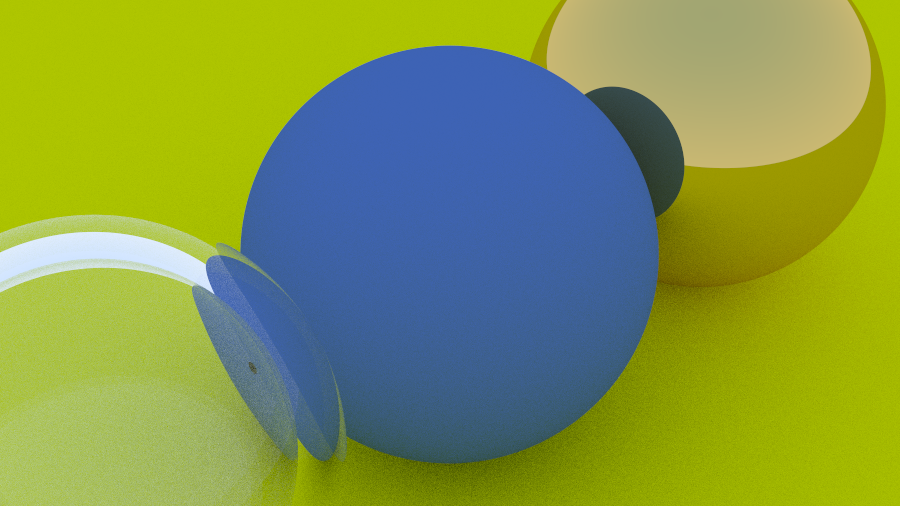
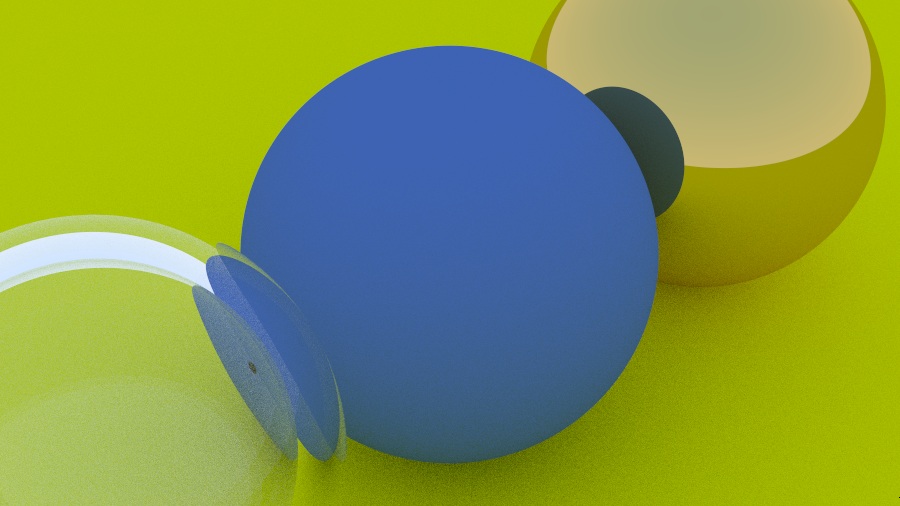
Reorder pixel rendering to make it look cooler and fixed non-reproducible random

diff --git a/src/main.rs b/src/main.rs
@@ -6,6 +6,7 @@ mod my_scene;
 mod noise;
 mod ray;
 mod scene;
+mod space_filler;
 mod sphere;
 
 use std::io::{stdout, Write};
@@ -100,10 +101,9 @@ fn update_buffer(buffer: &mut [u32], window: &mut Window) {
     let (sender, receiver) = mpsc::sync_channel(HEIGHT * WIDTH + 1);
     thread::spawn(move || {
         (0..(HEIGHT * WIDTH)).into_par_iter().for_each(|xy| {
-            let x = xy % WIDTH;
-            let y = xy / WIDTH;
+            let (x, y) = space_filler::filling_curve(xy, WIDTH, HEIGHT);
             let color = pixel_processing(x, HEIGHT - y);
-            if sender.send((xy, color)).is_err() {}
+            if sender.send((x + y * WIDTH, color)).is_err() {}
         });
         eprintln!("\r100.0% - Finished computing");
     });
@@ -175,18 +175,17 @@ fn out_color(pixel_color: Color) -> (u8, u8, u8) {
     (ir, ig, ib)
 }
 
+// Get a different value for small differences in seed by casting its to a u64.
+fn f32_to_unique_u64(seed: f32) -> u64 {
+    unsafe {
+        // Safety: this function always takes an f64, so trasnmuting to an u64 is safe.
+        std::mem::transmute_copy::<_, u64>(&(seed as f64))
+    }
+}
+
 #[inline]
 fn random_in_unit_sphere(seed: f32) -> glm::Vec3 {
-    // Get a different value for small differences in rec.point by casting its
-    // f64 sum to a u64.
-    // Maybe using a real hash would be better ? I don't know if the overhead is
-    // necessary, and this implementation already works well.
-    let hash = unsafe {
-        // Safety: the function argument always returns a f64 so transmuting to u64
-        // works.
-        std::mem::transmute_copy::<_, u64>(&(seed as f64))
-    };
-    let r = &mut StdRng::seed_from_u64(hash);
+    let r = &mut StdRng::seed_from_u64(f32_to_unique_u64(seed));
     glm::make_vec3(&UnitBall.sample(r)).normalize()
 }
 

diff --git a/src/material.rs b/src/material.rs
@@ -1,8 +1,11 @@
 use std::sync::Arc;
 
+use rand::rngs::StdRng;
+use rand::{Rng, SeedableRng};
+
 use crate::hittable::HitRecord;
 use crate::ray::Ray;
-use crate::{random_in_unit_sphere, Color};
+use crate::{f32_to_unique_u64, random_in_unit_sphere, Color};
 
 pub enum ScatterResponse {
     Scatter(Color, Ray),
@@ -104,12 +107,14 @@ impl Material for Dielectic {
         let cos_theta = (-unit_direction).dot(&rec.normal).min(1.0);
         let sin_theta = (1.0 - cos_theta * cos_theta).sqrt();
         let cannot_refract = refraction_ratio * sin_theta > 1.0;
-        let direction =
-            if cannot_refract || reflectance(cos_theta, refraction_ratio) > rand::random() {
-                glm::reflect_vec(&unit_direction, &rec.normal)
-            } else {
-                glm::refract_vec(&unit_direction, &rec.normal, refraction_ratio)
-            };
+
+        let can_reflect = reflectance(cos_theta, refraction_ratio)
+            > StdRng::seed_from_u64(f32_to_unique_u64(rec.point.sum())).gen();
+        let direction = if cannot_refract || can_reflect {
+            glm::reflect_vec(&unit_direction, &rec.normal)
+        } else {
+            glm::refract_vec(&unit_direction, &rec.normal, refraction_ratio)
+        };
         let scattered = Ray::new(rec.point, direction);
 
         Scatter(attenuation, scattered)

diff --git a/src/space_filler.rs b/src/space_filler.rs
@@ -1,0 +1,6 @@
+pub fn filling_curve(xy: usize, width: usize, height: usize) -> (usize, usize) {
+    let xy = (xy * 10) % (width * height + 1);
+    let y = xy % height;
+    let x = xy / height;
+    (x, y)
+}
